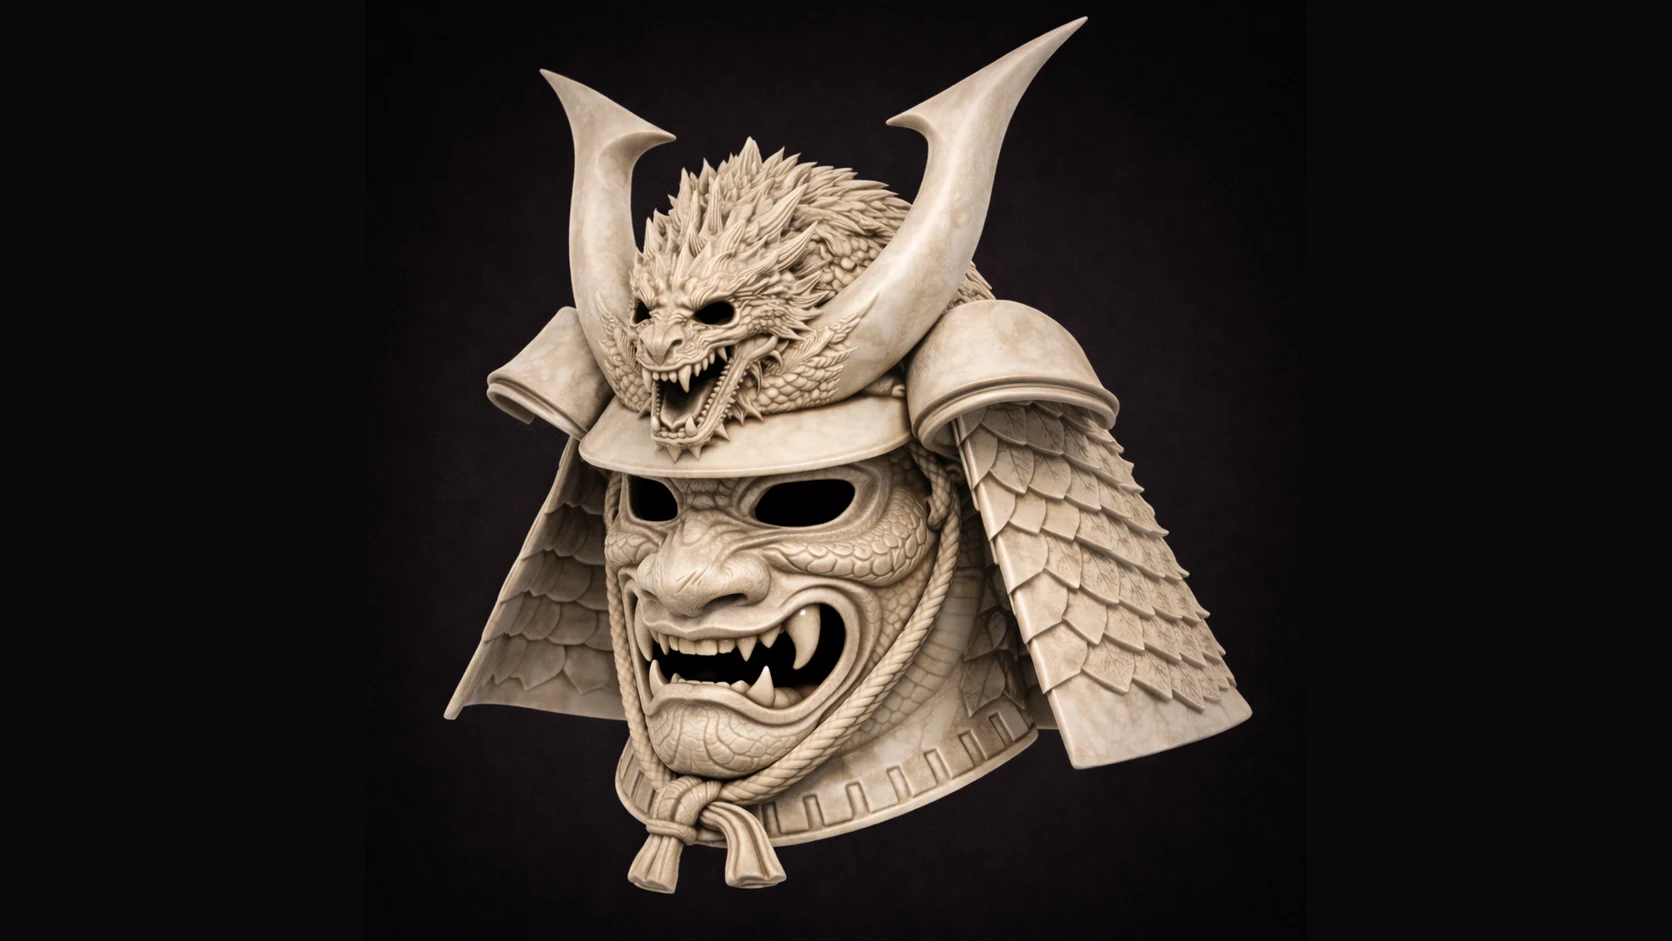
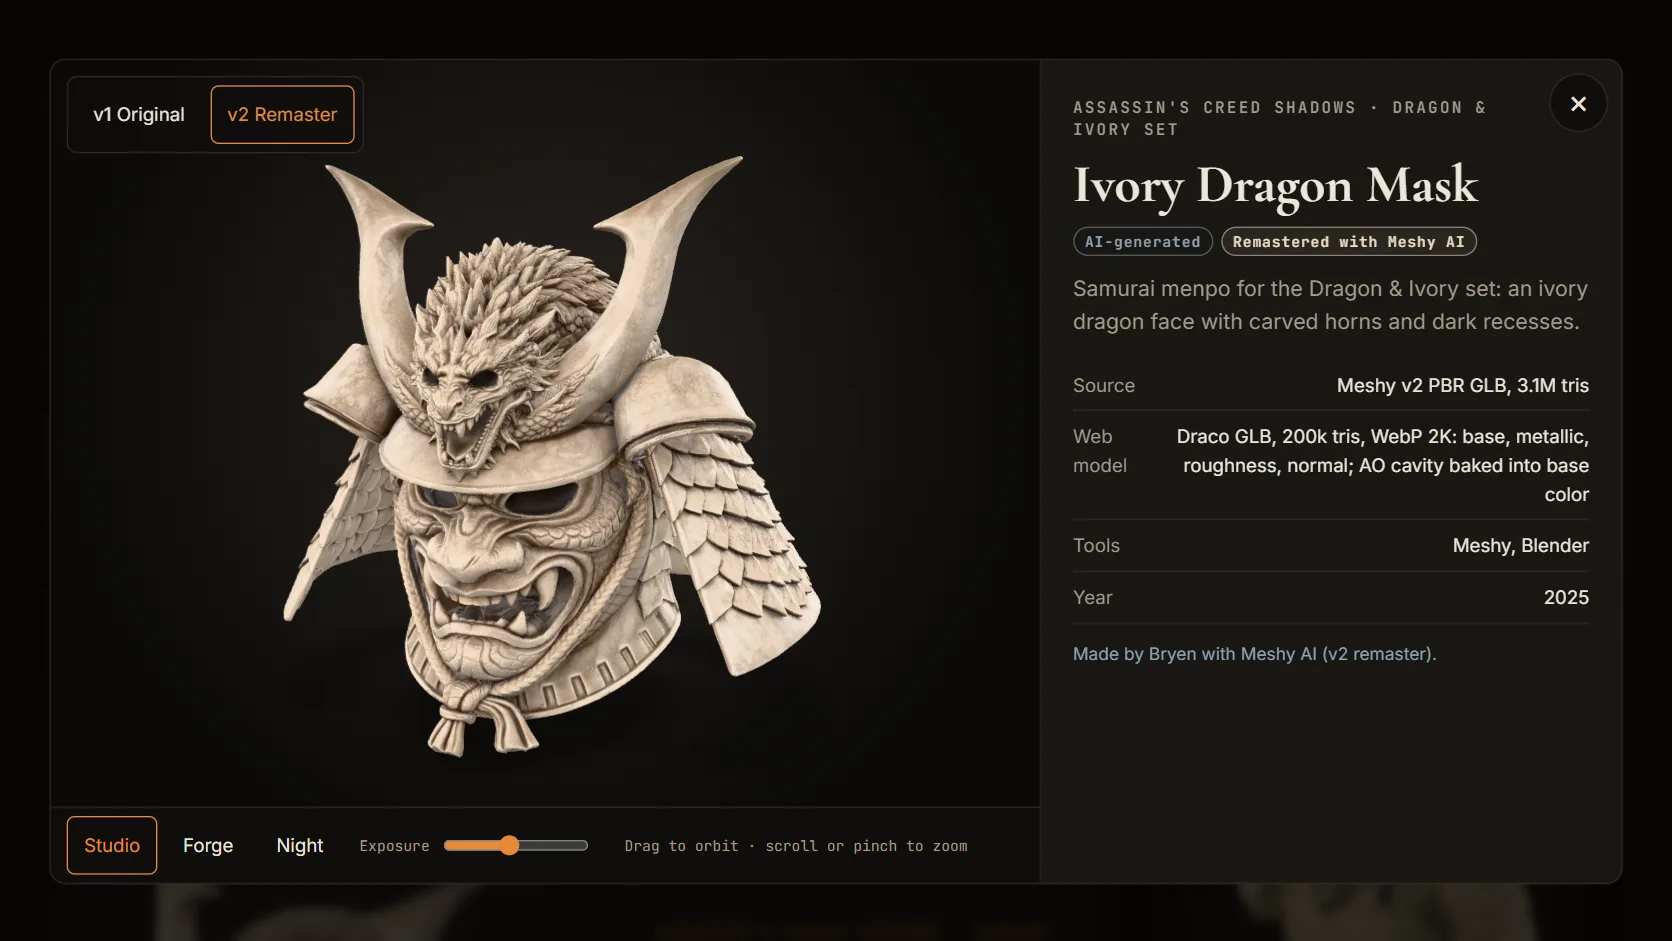
Showcase case study: real viewer screenshot, accurate alt and wording
- Card and hero art is now a 16:9 screenshot of the showcase viewer (v1/v2 toggle,
  light rigs, details panel) instead of a pillarboxed render
- Hero alt describes the screenshot; 'AI-generated' matches the showcase rights label;
  size highlight uses the real largest remaster (3.3 MB)

diff --git a/src/data/caseStudies.js b/src/data/caseStudies.js
@@ -95,6 +95,7 @@ export const caseStudies = [
     title: 'Forge & Mod: 3D Modding Showcase',
     tagline: 'A gallery for game mods and 3D assets, with an interactive model viewer, before-and-after comparisons and a headless Blender pipeline behind it.',
     image: moddingShowcaseArt,
+    imageAlt: 'The showcase viewer open on the Ivory Dragon Mask v2 remaster, with light rigs and asset details',
     role: 'Solo project: the 3D assets and mods, the viewer, and the Blender export pipeline. One model was finished by a commissioned designer; each asset is labelled with who made it.',
     stack: ['React', 'Vite', 'model-viewer', 'Blender (Python)', 'Node.js', 'Vitest'],
     // Private repository and no public deployment yet: no links. Kept out of the
@@ -102,8 +103,8 @@ export const caseStudies = [
     links: [],
     unlisted: true,
     highlights: [
-      { value: '5', label: 'AI-assisted remasters with a v1 / v2 toggle' },
-      { value: '≤ 8 MB', label: 'per model: Draco geometry and WebP textures' },
+      { value: '5', label: 'AI-generated remasters with a v1 / v2 toggle' },
+      { value: '3.3 MB', label: 'largest remaster: Draco geometry, WebP textures' },
       { value: '4', label: 'rights labels, so every asset says who made it' },
     ],
   },
